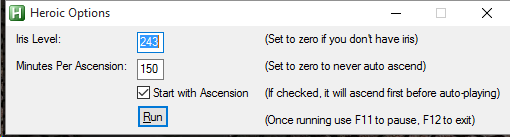
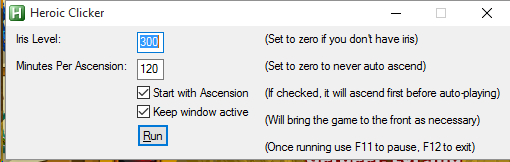
Readme and screenshot update

diff --git a/README.md b/README.md
@@ -1,5 +1,5 @@
 # Heroic Clicker 
-Version: 3.1
+Version: 3.3
 Author: Shawn Goertzen (https://github.com/sgoertzen) (Adapted from: http://github.com/Andrux51)
 
 ![Screenshot of UI](https://raw.githubusercontent.com/sgoertzen/heroic-clicker/master/Screenshot.png)
@@ -34,6 +34,8 @@ Any relics you get will be destroyed before ascending.  Feel free to pause the g
 The clicker heroes window must be active for the script to detect if auto-progression is off and to detect your highest gilded hero.  Hero leveling is also much faster with the window active.  There are fall backs in case you want to run this in the background, but they make the run slighly less efficient 
 ### Pause
 Using F11 to pause the grinding does not pause the ascension timer.
+### Relic Dialog
+Be sure to turn off the "Show relic found popups" under options otherwise it will interrupt the program.
 
 ## Future Enhancements
 - Keep track of the timers on skills and use them more effectively
